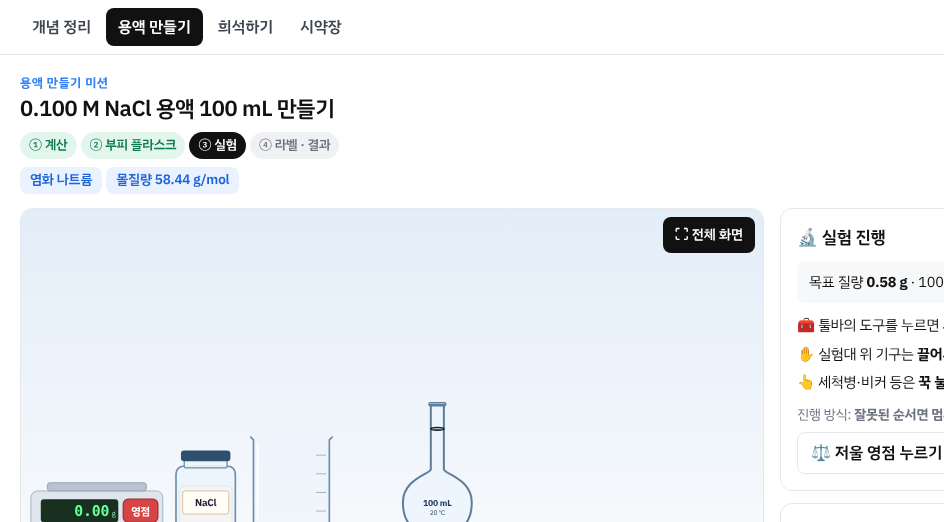
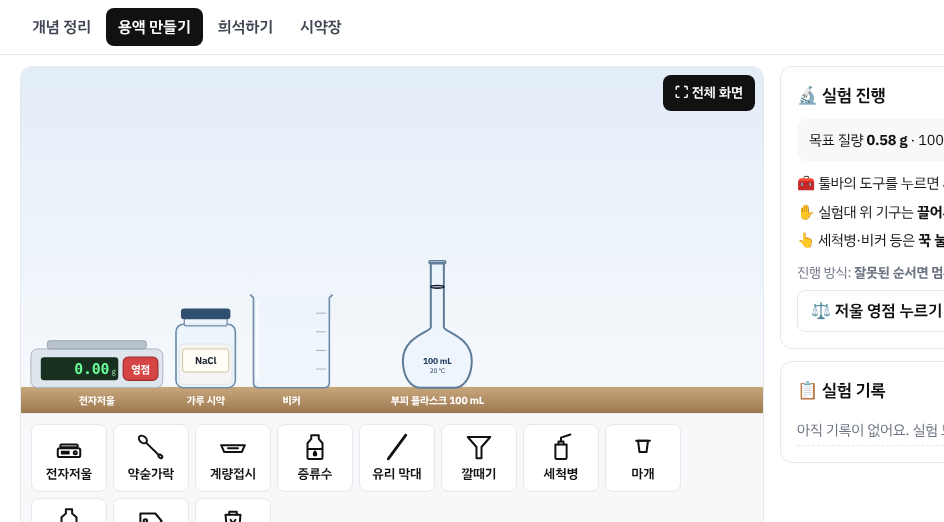
썸네일: 몰농도 실험실은 실험대 장면이 보이도록 준비 동작 보정
Claude-Session: https://claude.ai/code/session_01YFfKQKFeZiYGYL2oWm3MoV

diff --git a/scripts/thumbs.js b/scripts/thumbs.js
@@ -15,7 +15,7 @@ const PREP = {
     await p.click('#g-coat'); await p.click('#g-gloves'); await p.click('#g-goggles'); await p.click('#m-strict'); await p.click('#startBtn'); await p.waitForTimeout(2600);
     await p.evaluate(() => { startPrep(0); S.job.calc.step = 99; S.job.flask = S.job.m.V; S.job.stage = 'lab'; render(); });
     await p.waitForTimeout(400);
-    await p.evaluate(() => { const s = document.querySelector('.scenebox'); if (s) { s.scrollIntoView({ block: 'start' }); window.scrollBy(0, -62); } });
+    await p.evaluate(() => { const s = document.querySelector('.scenebox'); if (s) { document.querySelector('main').style.paddingBottom = '400px'; s.scrollIntoView({ block: 'start' }); window.scrollBy(0, -66); } });
   },
   'chemistry/buffer-solution-lab': async p => {   // 안내 닫고 ① pH 비교에서 HCl 6 mL 넣은 모습
     await p.click('#modalClose').catch(() => {}); await p.click('#cmpAdd1'); await p.click('#cmpAdd5'); await p.waitForTimeout(1600);
